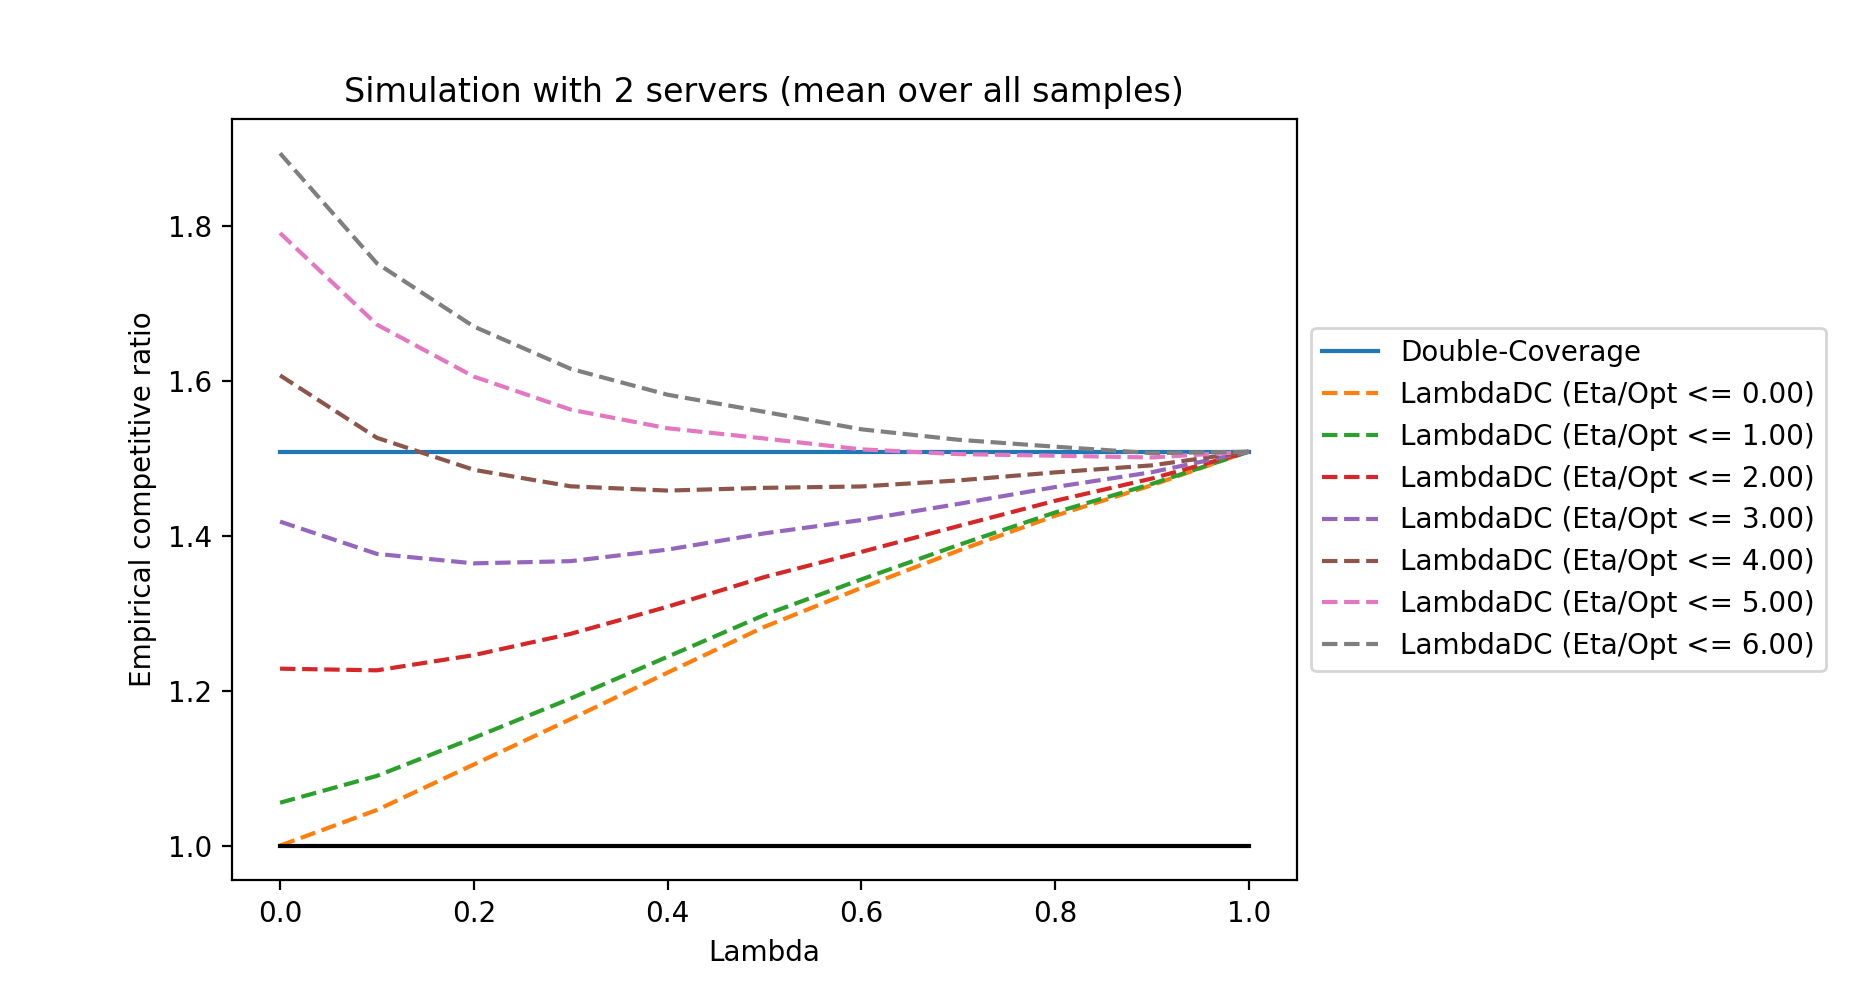
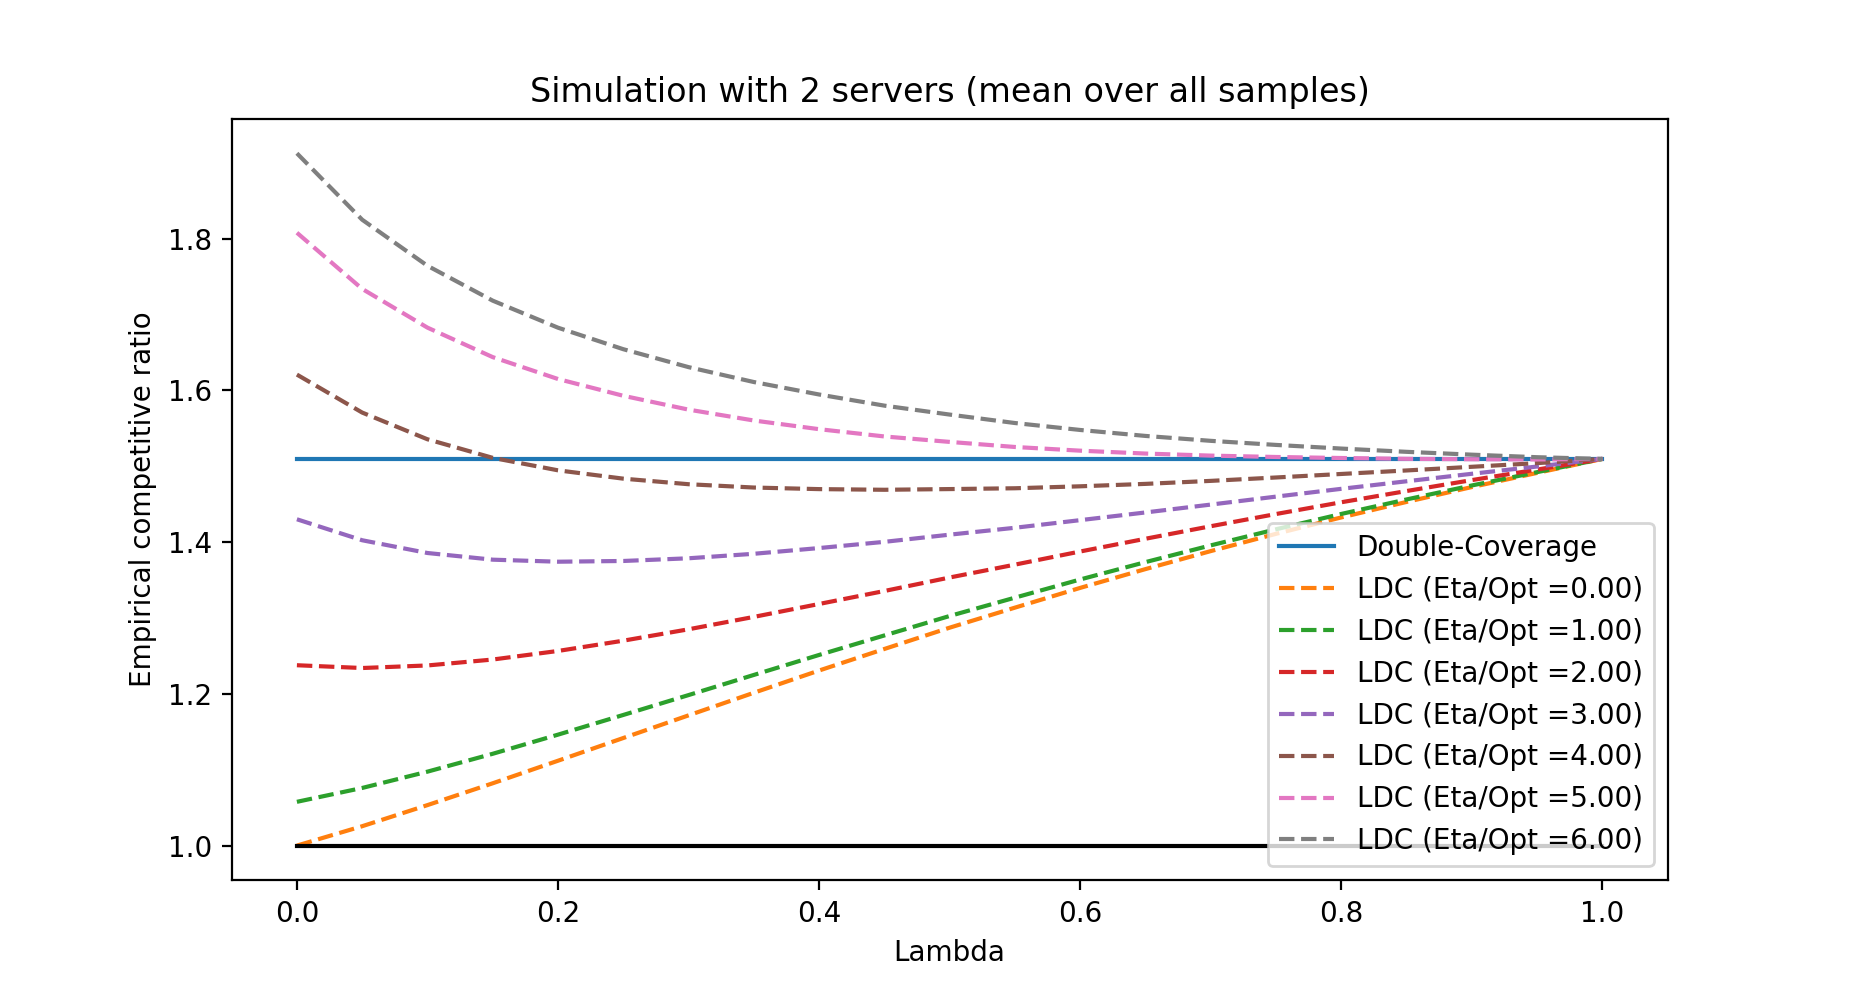
wip

diff --git a/scripts/plot.py b/scripts/plot.py
@@ -5,6 +5,11 @@ import pandas as pd
 import numpy as np
 import matplotlib.pyplot as plt
 
+DETERMINISTIC_ALG_SERVER = "Double-Coverage"
+DETERMINISTIC_ALG_TAXI = "BiasedDC"
+ENHANCED_ALG_SERVER = "LDC"
+ENHANCED_ALG_TAXI = "LBDC"
+
 
 def create_arg_parser():
     parser = argparse.ArgumentParser(
@@ -20,7 +25,7 @@ def create_arg_parser():
 
 def get_data(filename):
     data = pd.read_csv(filename)
-    data = data.round(3)
+    #data = data.round(3)
     data['EtaOverOpt'] = data['Eta'] / data['OptCost']
     data['CRalg'] = data['AlgCost'] / data['OptCost']
     data['CRdc'] = data['DcCost'] / data['OptCost']
@@ -35,27 +40,27 @@ def robust(x):
     return 1 + 1/x
 
 
-def plot_lambda(df, eta_res, args):
+def plot_lambda(df, eta_res, args, det_alg, pred_alg):
     df['Bin'] = np.ceil(df['EtaOverOpt'] / eta_res) * eta_res
-    df['Double-Coverage'] = df['CRdc']
+    df[det_alg] = df['CRdc']
     # df = df[df['Bin'] < 10]
     dfAlg = df.loc[:, ['Lmbda', 'CRalg', 'Bin']]
-    dfDC = df.loc[:, ['Lmbda', 'Double-Coverage']]
+    dfDC = df.loc[:, ['Lmbda', det_alg]]
 
     if args.max:
         grouped_data = dfAlg.groupby(
             ['Bin', 'Lmbda']).max().unstack('Bin')
         ax = dfDC.groupby(['Lmbda']).max().plot(
-            label='DoubleCoverage', legend=True)
+            label=det_alg, linewidth=2, legend=True)
     else:
         grouped_data = dfAlg.groupby(
             ['Bin', 'Lmbda']).mean().unstack('Bin')
         ax = dfDC.groupby(['Lmbda']).mean().plot(
-            label='DoubleCoverage', legend=True)
+            label=det_alg, linewidth=2, legend=True)
 
     for label, l in list(grouped_data):
-        grouped_data[(label, l)].plot(ax=ax,
-                                      style='--', label=f"LambdaDC (Eta/Opt <= {l:1.2f})", legend=True)
+        grouped_data[(label, l)].plot(ax=ax, linewidth=2,
+                                      style='--', label=f"{pred_alg} (Eta/Opt ={l:1.2f})", legend=True)
 
     plt.plot((0, 1), (1, 1), 'black')
 
@@ -65,7 +70,6 @@ def plot_lambda(df, eta_res, args):
     plt.xlabel('Lambda')
     plt.ylabel('Empirical competitive ratio')
     #plt.axis([0, 1, 0.9, 2.5])
-    plt.legend(loc='center left', bbox_to_anchor=(1, 0.5))
 
     if args.max:
         plt.title(
@@ -75,12 +79,14 @@ def plot_lambda(df, eta_res, args):
             f"Simulation with {args.number_of_servers} servers (mean over all samples)")
 
     fig = plt.gcf()
-    fig.set_dpi(200)
-    fig.set_size_inches(15, 8, forward=True)
-    fig.subplots_adjust(right=0.7)
+    plt.legend(loc="lower right",
+               bbox_transform=fig.transFigure, ncol=2)
+    fig.set_dpi(250)
+    fig.set_size_inches(14, 8, forward=True)
+    # fig.subplots_adjust(right=0.7)
 
 
-def plot_eta(df, eta_res, args):
+def plot_eta(df, eta_res, args, pred_alg):
     lambdas = list(np.linspace(0, 1, num=args.lambdas))
     lambdas = [round(l, 3) for l in lambdas]
     df = df[df['Lmbda'].isin(lambdas)]
@@ -95,12 +101,12 @@ def plot_eta(df, eta_res, args):
 
     for label, l in list(grouped_data):
         grouped_data[(label, l)].plot(
-            style='--', label=f"LambdaDC (Lambda = {l:1.2f})", legend=True)
+            style='--', linewidth=2, label=f"{pred_alg} (Lambda = {l:1.2f})", legend=True)
 
     plt.plot((0, max_bin), (1, 1), 'black')
     plt.xlabel('Eta / Opt')
     plt.ylabel('Empirical competitive ratio')
-    plt.legend(loc='center left', bbox_to_anchor=(1, 0.5))
+    plt.legend(loc='lower right')
 
     if args.max:
         plt.title(
@@ -110,9 +116,9 @@ def plot_eta(df, eta_res, args):
             f"Simulation with {args.number_of_servers} servers (mean over all samples)")
 
     fig = plt.gcf()
-    fig.set_dpi(200)
-    fig.set_size_inches(15, 8, forward=True)
-    fig.subplots_adjust(right=0.7)
+    fig.set_dpi(250)
+    fig.set_size_inches(10, 8, forward=True)
+    # fig.subplots_adjust(right=0.7)
 
 
 if __name__ == "__main__":
@@ -120,9 +126,18 @@ if __name__ == "__main__":
     parsed_args = arg_parser.parse_args(sys.argv[1:])
     if os.path.exists(parsed_args.sampleFile):
         print(parsed_args.bin_size)
+        if "taxi" in parsed_args.sampleFile:
+            det_alg = DETERMINISTIC_ALG_TAXI
+            pred_alg = ENHANCED_ALG_TAXI
+        else:
+            det_alg = DETERMINISTIC_ALG_SERVER
+            pred_alg = ENHANCED_ALG_SERVER
+
         data = get_data(parsed_args.sampleFile)
-        plot_eta(data, float(parsed_args.bin_size), parsed_args)
-        plot_lambda(data, float(parsed_args.bin_size), parsed_args)
+        plot_eta(data, float(parsed_args.bin_size),
+                 parsed_args, pred_alg)
+        plot_lambda(data, float(parsed_args.bin_size),
+                    parsed_args, det_alg, pred_alg)
         plt.show()
     else:
         print("Path not valid!")

diff --git a/src/algorithm.rs b/src/algorithm.rs
@@ -48,12 +48,13 @@ trait Algorithm {
 
         for (idx, &req) in instance.requests().into_iter().enumerate() {
             let current = schedule.last().unwrap();
-            let (next, cost) = self.next_move(current, req, idx);
+            let (mut next, cost) = self.next_move(current, req, idx);
             costs += cost;
-            //next.normalize();
+            next.normalize();
             schedule.append_config(next);
         }
 
+        //println!("{:?}", schedule);
         (schedule, costs)
     }
 
@@ -105,12 +106,12 @@ impl Algorithm for DoubleCoverage {
         req: Request,
         _req_idx: usize,
     ) -> (ServerConfiguration, f64) {
-        let (left, right) = current.adjacent_servers(req);
-        let mut res = current.clone();
+        let (left, right) = current.adjacent_servers(&req);
+        let mut res = ServerConfiguration::from(current.0.to_vec());
         let pos = req.s;
         match (left, right) {
             (Some(i), Some(j)) => {
-                let d = min!(current[j] - pos, pos - current[i]);
+                let d = min!((current[j] - pos).abs(), (pos - current[i]).abs());
                 res[i] += d;
                 res[j] -= d;
             }
@@ -177,7 +178,7 @@ impl LambdaDC {
         //
         let d1 = (pos_pred - req).abs();
         let d2 = (pos_other - req).abs();
-        if d2 >= self.lambda * d1 {
+        if d2 > self.lambda * d1 {
             (d1, self.lambda * d1)
         } else {
             (d2 / self.lambda, d2)
@@ -193,18 +194,20 @@ impl Algorithm for LambdaDC {
         req_idx: usize,
     ) -> (ServerConfiguration, f64) {
         let pos = req.s;
-        let (left, right) = current.adjacent_servers(req);
+        let (left, right) = current.adjacent_servers(&req);
         let mut res = ServerConfiguration::from(current.0.to_vec());
         match (left, right) {
             (Some(i), Some(j)) => {
                 if i == j - 1 {
+                    assert!(current[i] < pos);
+                    assert!(current[j] > pos);
                     // neither i nor j are on the request
                     let predicted = self.prediction.get_predicted_server(req_idx);
                     let fast_server = if predicted <= i { i } else { j };
                     if self.lambda == 0.0 {
                         res[fast_server] = pos;
                     } else {
-                        let other: usize = if fast_server == i { j } else { j };
+                        let other: usize = if fast_server == i { j } else { i };
                         let (fast, slow) =
                             self.get_distances(current[fast_server], current[other], pos);
                         if i == fast_server {
@@ -226,7 +229,11 @@ impl Algorithm for LambdaDC {
                                 res[j] = pos;
                             }
                         }
+                        assert!(self.lambda < 1.0 || fast == slow);
+                        assert!(res[i] == pos || res[j] == pos);
                     }
+                } else {
+                    assert!(res[i] == pos);
                 }
             }
             (Some(i), None) | (None, Some(i)) => {
@@ -332,6 +339,11 @@ mod tests {
             ]),
             dc.run(&instance).0
         )
+    }
+    #[test]
+    fn test_min() {
+        assert_eq!(4, min!(4, 6));
+        assert_eq!(4.0, min!(4.0, 6.0));
     }
 
     #[test]

diff --git a/src/pred.rs b/src/pred.rs
@@ -71,8 +71,30 @@ impl Prediction {
         for (idx, req) in instance.requests().iter().enumerate() {
             schedule.append_move(self.0[idx], req.t);
         }
-        schedule.normalize();
         schedule
+
+        // for (idx, req) in instance.requests().iter().enumerate() {
+        //     let current = schedule.last().unwrap();
+        //     let (left, right) = current.adjacent_servers(req);
+        //     match (left, right) {
+        //         (Some(i), Some(j)) => {
+        //             if i == j - 1 {
+        //                 let predicted = self.0[idx];
+        //                 if predicted <= i {
+        //                     schedule.append_move(i, req.t);
+        //                 } else {
+        //                     schedule.append_move(j, req.t);
+        //                 }
+        //             } else {
+        //                 schedule.append_move(i, req.t);
+        //             }
+        //         }
+        //         (Some(i), None) | (None, Some(i)) => {
+        //             schedule.append_move(i, req.t);
+        //         }
+        //         (None, None) => panic!("Should not happen"),
+        //     }
+        // }
     }
 
     pub fn get_eta(&self, solution: &Schedule, instance: &Instance) -> f64 {
@@ -162,6 +184,12 @@ pub fn generate_predictions(
 
             let pred = Prediction::from(pred_vec);
             let pred_schedule = pred.to_schedule(instance);
+            // println!(
+            //     "Instance length {}, Solution length {}, Pred length {}",
+            //     instance.length(),
+            //     solution.size(),
+            //     pred.0.len()
+            // );
             let eta = solution.diff(&pred_schedule);
             let ratio = eta as f32 / opt_cost as f32;
             let bin_index: usize = (ratio / config.step_size).ceil() as usize;

diff --git a/src/server_config.rs b/src/server_config.rs
@@ -44,11 +44,11 @@ use crate::request::Request;
 /// # use serversim::server_config::ServerConfiguration;
 /// # use serversim::request::Request;
 /// let config: ServerConfiguration = vec![1,5,10].into();
-/// assert_eq!((Some(0), Some(1)), config.adjacent_servers(Request::from(3)));
-/// assert_eq!((None, Some(0)), config.adjacent_servers(Request::from(-1)));
-/// assert_eq!((Some(1), Some(1)), config.adjacent_servers(Request::from(5)));
-/// assert_eq!((Some(2), Some(2)), config.adjacent_servers(Request::from(10)));
-/// assert_eq!((Some(2), None), config.adjacent_servers(Request::from(12)));
+/// assert_eq!((Some(0), Some(1)), config.adjacent_servers(&Request::from(3)));
+/// assert_eq!((None, Some(0)), config.adjacent_servers(&Request::from(-1)));
+/// assert_eq!((Some(1), Some(1)), config.adjacent_servers(&Request::from(5)));
+/// assert_eq!((Some(2), Some(2)), config.adjacent_servers(&Request::from(10)));
+/// assert_eq!((Some(2), None), config.adjacent_servers(&Request::from(12)));
 /// ```
 #[derive(Debug, Clone, PartialEq)]
 pub struct ServerConfiguration(pub Vec<f32>);
@@ -72,7 +72,7 @@ impl ServerConfiguration {
         self.0.len()
     }
 
-    pub fn adjacent_servers(&self, req: Request) -> (Option<usize>, Option<usize>) {
+    pub fn adjacent_servers(&self, req: &Request) -> (Option<usize>, Option<usize>) {
         let mut right_index: Option<usize> = None;
         for (idx, &server) in self.into_iter().enumerate() {
             if server >= req.s {

diff --git a/src/sim.rs b/src/sim.rs
@@ -63,7 +63,13 @@ fn simulate_kserver(sample: &Sample, lambda: f32) -> Result<Vec<SimResult>, Simu
             if alg_cost as f64 > (1.0 + (k - 1.0) * lambda as f64) * (sample.opt_cost as f64 + 2.0 * eta as f64) {
                 println!("LambdaDC does not achieve the theoretical competitive ratio: {} > (1+{})({} + 2{})",
                     alg_cost, lambda, sample.opt_cost, eta);
-            }            
+            }    
+            if lambda == 0.0 && eta == 0.0 && alg_cost as f64 != sample.opt_cost as f64 {
+                println!("LambdaDC with lambda = eta = 0, but ALG = {} != {} = OPT", alg_cost, sample.opt_cost);
+            }  
+            if (alg_cost as f64) < sample.opt_cost as f64 {
+                println!("LambdaDC ALG = {} < {} = OPT", alg_cost, sample.opt_cost);
+            }         
             let res = SimResult {
                 instance: sample.instance.clone(),
                 opt_cost: sample.opt_cost,

diff --git a/src/solver.rs b/src/solver.rs
@@ -158,7 +158,7 @@ fn create_schedule(paths: Vec<mcmf::Path<VertexType>>, instance: &Instance) -> S
     //println!("Initial: {:?}", req_to_server);
     for (req_index, &req) in instance.requests().iter().enumerate() {
         let last_config = schedule.last().unwrap();
-        match last_config.adjacent_servers(req) {
+        match last_config.adjacent_servers(&req) {
             (Some(i), Some(j)) => {
                 if req_to_server[&req_index] < i {
                     //println!("< i: ({}, {})", i, j);

diff --git a/src/schedule.rs b/src/schedule.rs
@@ -94,6 +94,10 @@ impl Schedule {
         }
     }
 
+    pub fn size(&self) -> usize {
+        self.0.len()
+    }
+
     pub fn normalize(&mut self) {
         for config in self {
             config.normalize();
